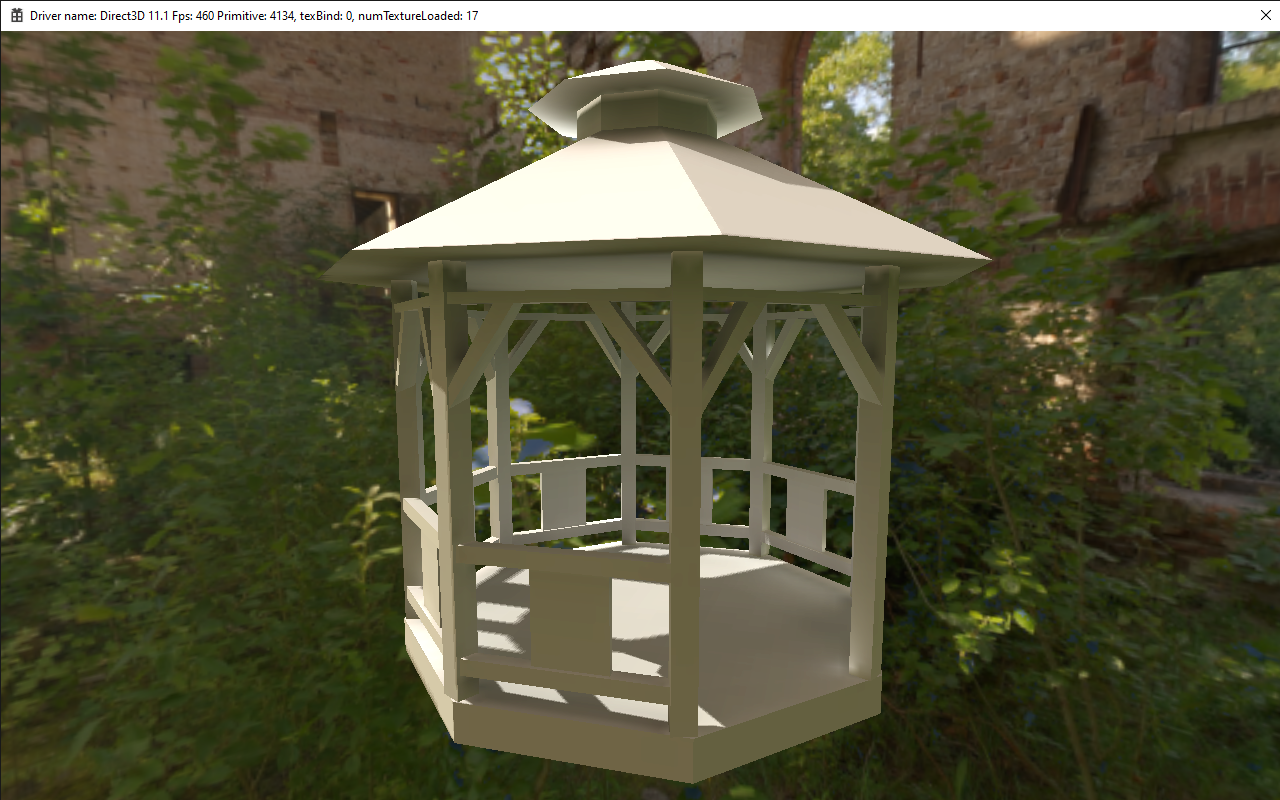
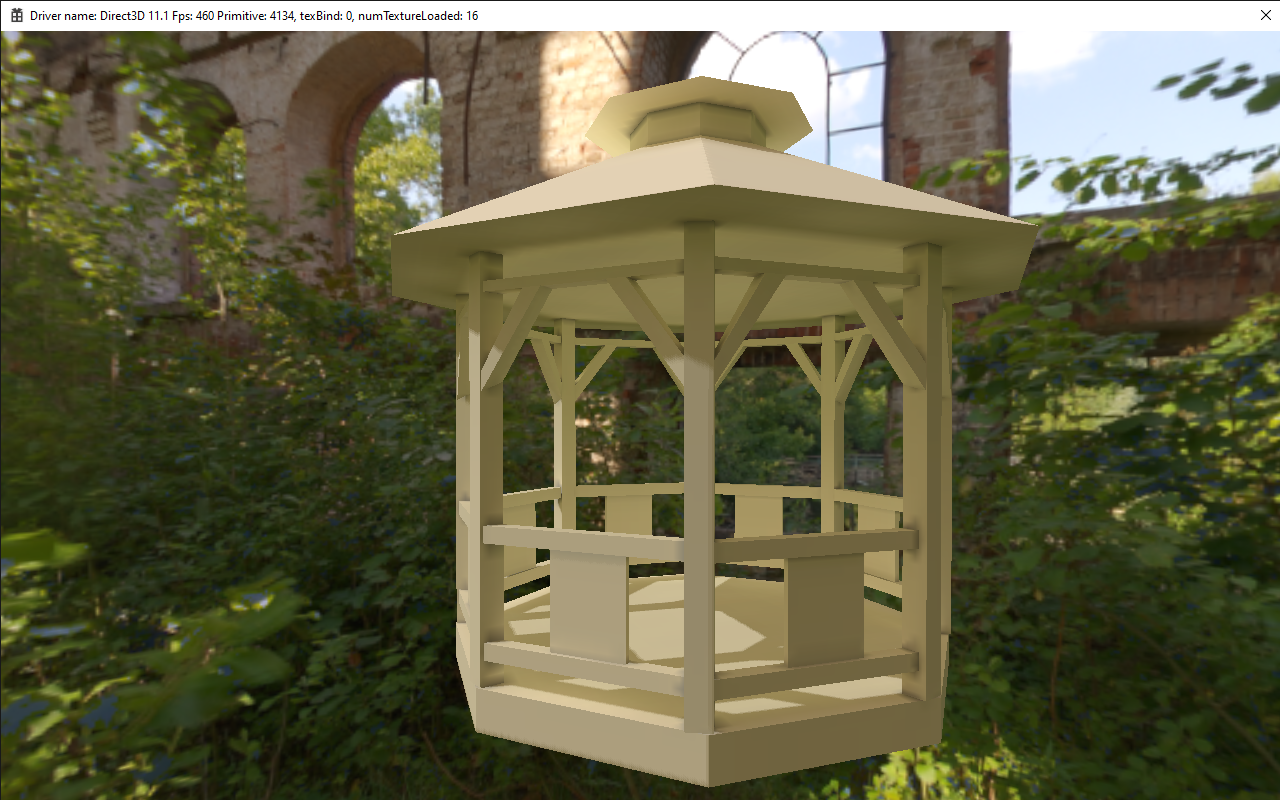
Update lightmapper

diff --git a/Samples/SampleFW/Context/CContext.cpp b/Samples/SampleFW/Context/CContext.cpp
@@ -39,7 +39,7 @@ void CContext::releaseScene()
 	}
 }
 
-CBaseRP* CContext::initRenderPipeline(int w, int h)
+CBaseRP* CContext::initRenderPipeline(int w, int h, bool postEffect)
 {
 	// 1st
 	m_shadowMapRendering = new CShadowMapRP();
@@ -59,12 +59,15 @@ CBaseRP* CContext::initRenderPipeline(int w, int h)
 	m_shadowMapRendering->setNextPipeLine(m_rendering);
 	m_rendering->setNextPipeLine(m_forwardRP);
 
-	// post processor
-	m_postProcessor = new CPostProcessorRP();
-	m_postProcessor->initRender(w, h);
+	if (postEffect == true)
+	{
+		// post processor
+		m_postProcessor = new CPostProcessorRP();
+		m_postProcessor->initRender(w, h);
 
-	// apply post processor
-	m_rendering->setPostProcessor(m_postProcessor);
+		// apply post processor
+		m_rendering->setPostProcessor(m_postProcessor);
+	}
 
 	m_beginRP = m_shadowMapRendering;
 	return m_beginRP;
@@ -88,6 +91,12 @@ void CContext::releaseRenderPipeline()
 	{
 		delete m_forwardRP;
 		m_forwardRP = NULL;
+	}
+
+	if (m_postProcessor != NULL)
+	{
+		delete m_postProcessor;
+		m_postProcessor = NULL;
 	}
 }
 

diff --git a/Projects/Skylicht/Engine/Source/RenderPipeline/CDeferredRP.cpp b/Projects/Skylicht/Engine/Source/RenderPipeline/CDeferredRP.cpp
@@ -359,7 +359,7 @@ namespace Skylicht
 			if (CBaseRP::s_bakeBounce <= 1)
 				CShaderManager::getInstance()->ShaderVec3[0] = core::vector3df(1.0f, 1.0f, 1.0f);
 			else
-				CShaderManager::getInstance()->ShaderVec3[0] = core::vector3df(1.0f, 1.0f, 0.0f);
+				CShaderManager::getInstance()->ShaderVec3[0] = core::vector3df(1.0f, 0.6f, 0.0f);
 		}
 		else
 		{

diff --git a/Samples/Lightmapping/Source/CViewInit.cpp b/Samples/Lightmapping/Source/CViewInit.cpp
@@ -157,7 +157,7 @@ void CViewInit::onInit()
 }
 
 	// save to context	
-	context->initRenderPipeline(app->getWidth(), app->getHeight());
+	context->initRenderPipeline(app->getWidth(), app->getHeight(), false);
 	context->setActiveZone(zone);
 	context->setActiveCamera(camera);
 	context->setGUICamera(guiCamera);

diff --git a/Samples/LightmapUV/Source/SampleLightmapUV.cpp b/Samples/LightmapUV/Source/SampleLightmapUV.cpp
@@ -172,8 +172,8 @@ void SampleLightmapUV::runThread()
 #ifdef LIGHTMAP_SPONZA
 	m_unwrap.generate(1024, 0.3f);
 #else
-	// auto texel in 256
-	m_unwrap.generate(256, 0.0f);
+	// auto texel in 512
+	m_unwrap.generate(512, 0.0f);
 #endif
 
 	m_unwrap.generateUVImage();

diff --git a/Samples/Lightmapping/Source/CViewBakeLightmap.cpp b/Samples/Lightmapping/Source/CViewBakeLightmap.cpp
@@ -18,7 +18,7 @@ CViewBakeLightmap::CViewBakeLightmap() :
 #ifdef LIGHTMAP_SPONZA
 	m_lightmapSize(1024),
 #else
-	m_lightmapSize(256),
+	m_lightmapSize(512),
 #endif
 	m_timeBeginBake(0),
 	m_timeSpentFromLastSave(0),

diff --git a/Samples/SampleFW/Context/CContext.h b/Samples/SampleFW/Context/CContext.h
@@ -32,7 +32,7 @@ public:
 
 	CScene* initScene();
 
-	CBaseRP* initRenderPipeline(int w, int h);
+	CBaseRP* initRenderPipeline(int w, int h, bool postEffect = true);
 
 	inline CScene* getScene()
 	{

diff --git a/Samples/Lightmapping/Source/CViewDemo.cpp b/Samples/Lightmapping/Source/CViewDemo.cpp
@@ -10,7 +10,6 @@ CViewDemo::CViewDemo()
 
 CViewDemo::~CViewDemo()
 {
-	CContext::getInstance()->getDefferredRP()->setIndirectMultipler(1.5f);
 }
 
 void CViewDemo::onInit()

diff --git a/Samples/Lightmapping/Source/CViewBakeLightmap.h b/Samples/Lightmapping/Source/CViewBakeLightmap.h
@@ -9,7 +9,7 @@
 
 #define MAX_LIGHTMAP_ATLAS 10
 
-#define LIGHTMAP_SPONZA
+// #define LIGHTMAP_SPONZA
 
 class CViewBakeLightmap : public CView
 {

diff --git a/README.md b/README.md
@@ -166,11 +166,9 @@ This is a demo code to use lightmapper to bake indirect lighting color on lightm
 
 <img src="Documents/Media/Samples/lightmap/lightmapping_a.png"/>
 
-<img src="Documents/Media/Samples/lightmap/lightmapping_b.png"/>
-
 Result lightmap
 
-<img src="Documents/Media/Samples/lightmap/rasterize_2.png"/>
+<img src="Documents/Media/Samples/lightmap/rasterize_1.png"/>
 
 ### Sponza lightmap
 Sponza indirect lighting baked by Skylicht Lightmapper
